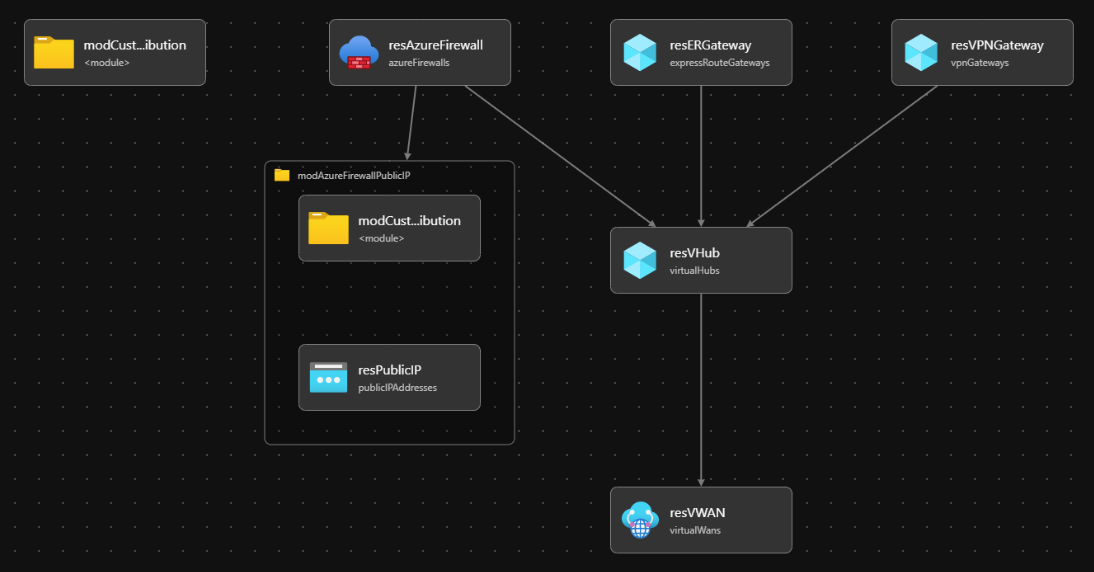
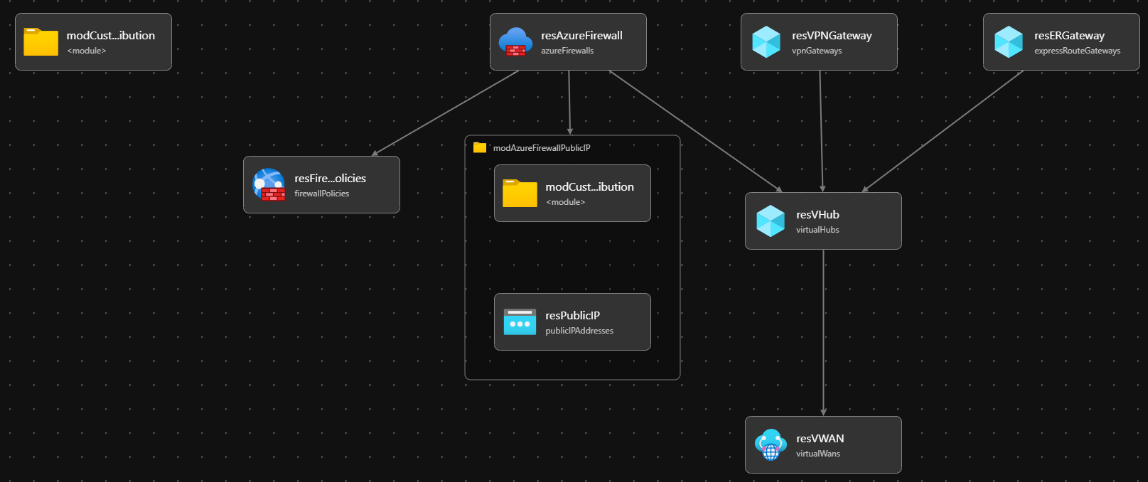
fixed linting errors in readme

diff --git a/infra-as-code/bicep/modules/vwanConnectivity/README.md b/infra-as-code/bicep/modules/vwanConnectivity/README.md
@@ -1,19 +1,16 @@
 # Module:  Virtual WAN
 
-This module is used to deploy the Virtual WAN network topology and its components according to the Azure Landing Zone conceptual architecture which can be found [here](https://docs.microsoft.com/en-us/azure/cloud-adoption-framework/ready/azure-best-practices/virtual-wan-network-topology). This module draws parity with the Enterprise Scale implementation in the ARM template [here](https://github.com/Azure/Enterprise-Scale/blob/main/eslzArm/subscriptionTemplates/vwan-connectivity.json)
+This module is used to deploy the Virtual WAN network topology and its components according to the Azure Landing Zone conceptual architecture which can be found [here](https://docs.microsoft.com/en-us/azure/cloud-adoption-framework/ready/azure-best-practices/virtual-wan-network-topology). This module draws parity with the Enterprise Scale implementation in the ARM template [here](https://github.com/Azure/Enterprise-Scale/blob/main/eslzArm/subscriptionTemplates/vwan-connectivity.json).
 
-Module deploys the following resources:
+Module deploys the following resources which can be configured by parameters:
 
 - Virtual WAN
-
-The following resources are optional and can be configured by parameters:
-
-- Virtual Hub. The virtual hub is a prerequisite to connect to either a VPN Gateway, an ExpressRoute Gateway or an Azure Firewall to the virtual WAN.
+- Virtual Hub. The virtual hub is a prerequisite to connect to either a VPN Gateway, an ExpressRoute Gateway or an Azure Firewall to the virtual WAN
 - VPN Gateway
 - ExpressRoute Gateway
-- Public IP is deployed only if Azure Firewall is enabled. 
+- Public IP is deployed only if Azure Firewall is enabled
 - Azure Firewall
-- Azure Firewall Policies
+- Azure Firewall policy
 
 ## Parameters
 
